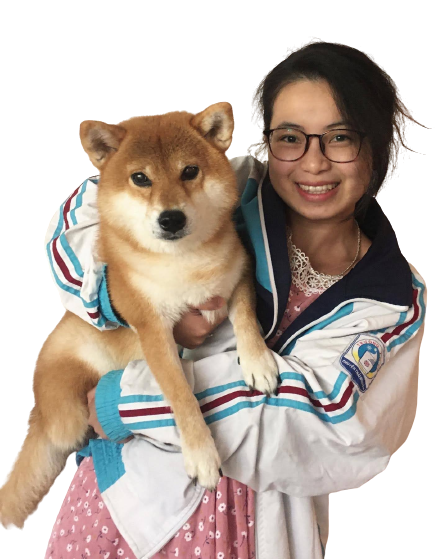
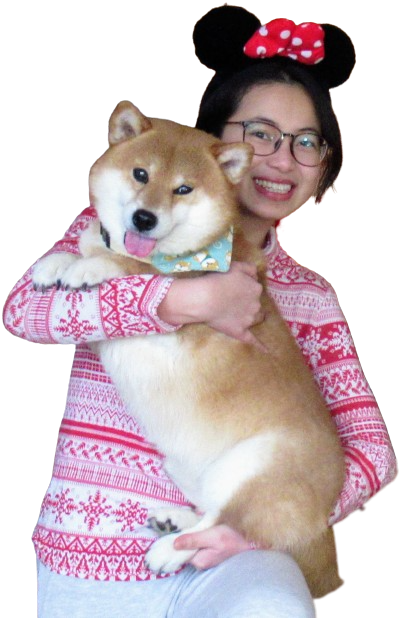
fix index, change photo of Bo and Mam

diff --git a/index.html b/index.html
@@ -56,7 +56,7 @@
           <p>Graduate Student &ndash; <a href="https://www.wisc.edu/" target=&ldquo;blank&rdquo;>Univeristy of Wisconsin - Madison</a>.<br />
           </p>
           <p>
-            <b>Contact</b>: &ldquo;thao.nguyen at wisc dot edu&ldquo; | &ldquo;thao.ntp0414 at gmail dot com&rdquo;. Or check my <a href="https://www.linkedin.com/in/kimtuthap97/" target=&ldquo;blank&rdquo;>LinkedIn</a>, <a href="https://twitter.com/kimtuthap97/" target=&ldquo;blank&rdquo;>Twitter</a>, <a href="https://github.com/thaoshibe" target=&ldquo;blank&rdquo;>GitHub</a>. <br />
+            <b>Contact</b>: &ldquo;thao.nguyen at wisc dot edu&ldquo; | &ldquo;thao.ntp0414 at gmail dot com&rdquo;. Or check my <a href="https://www.linkedin.com/in/kimtuthap97/" target=&ldquo;blank&rdquo;>LinkedIn</a>, <a href="https://twitter.com/thaoshibe/" target=&ldquo;blank&rdquo;>Twitter</a>, <a href="https://github.com/thaoshibe" target=&ldquo;blank&rdquo;>GitHub</a>. <br />
           </p>
           <p>
             <b>Research interests</b>: Image Editing/ Manipulation. <br />
@@ -140,7 +140,7 @@
                 <td>
                 <a href="https://www.instagram.com/avoshibe/">
                   <!-- <img src="images/bo.jpg" onmouseover="this.src='images/bo.jpg';" onmouseout="this.src='images/avoshibe-nobackground.png'" alt="alt text" height="140px" /> -->
-                  <img src="images/bo.png" alt="alt text" height="164px" />
+                  <img src="images/bo.png" alt="alt text" height="170px" />
                 </a>&nbsp;
               </td>
 
@@ -151,17 +151,17 @@
                   <p style="color:#B2560D">
                     ⬅ <b>Bơ the Shiba</b> is a cheese lover, salad hater, &amp; professional balls retriever 🧀. <br />
                     &nbsp&nbsp&nbsp&nbsp&nbspHis research interests lie broadly in the sleeping area 💤, focusing on squeaky toys 🐶.</p>
-                <p style="text-align:right;color:#555555"><b>Mam the Kitten</b> is a snooze expert 😴 ➞ <br/>
+                <p style="text-align:right;color:#555555"><b>Mam the Cat</b> is a snooze expert 😴 ➞ <br/>
                   He's also passionate about texture analysis, as he spends a lot of time scratching everything 😾.&nbsp&nbsp&nbsp&nbsp&nbsp</p>
-                <!-- <p style="font-size:120%">
-                  <center>
-                    "We keep Thao's secret <a style="font-size:90%;color:#673147" href='./myphd/README.html'>here 💎."</a>
+                <p style="font-size:120%">
+                  <center> 
+                    "🥑 Read our journey from Vietnam 🇻🇳 to the US 🇺🇸 <a style="color:#0000CD" href='./posts/Bo-and-journey-to-the-US.html'>here ✈."</a>
                   </center>
-                </p> -->
+                </p>
                 </div>
               <td>
                   <a href="https://www.instagram.com/avoshibe/">
-                  <img src="images/mam.png" height ="164px"></a>&nbsp;
+                  <img src="images/mam.png" height ="170px"></a>&nbsp;
               </td>
             </tr>
           </table>

diff --git a/thoughts/visual-prompt.md b/thoughts/visual-prompt.md
@@ -1,0 +1,29 @@
+# Visual Prompt
+
+**Papers**
+- [ ] Create slide for [textual_inversion paper](https://arxiv.org/pdf/2208.01618.pdf)
+
+<img src="./visual-prompt/101022.jpeg" alt="10/10/22 discussion with Utkarsh" width="400"/>
+
+Given: `A:B; C:?`. Find `D`.
+Notion:
+- E: Text encoder: Image generator 
+
+
+```
+	# Approach 1:
+	Step 1: Invert A, C to A*, C*
+		A* = E(A) # A = G("A photo of A*")
+		C* = E(C) # C = G("A photo of C*")
+	Step 2: Invert B, but conditional on A*
+		B* = E(B) # B* = G("A B* of A*")
+	Step 3: Generate D, using B* and A*
+		D = G("A B* of C*")
+```
+
+*12/10/2022*
+
+Got some results, but not good
+
+- Utkarsh suggested sanity check: D = G("A B* of A*"), should return B*
+- Yuheng recommended to check rescontruction noises and generation noise again. Why every reconstruction images looks exactly the same?
